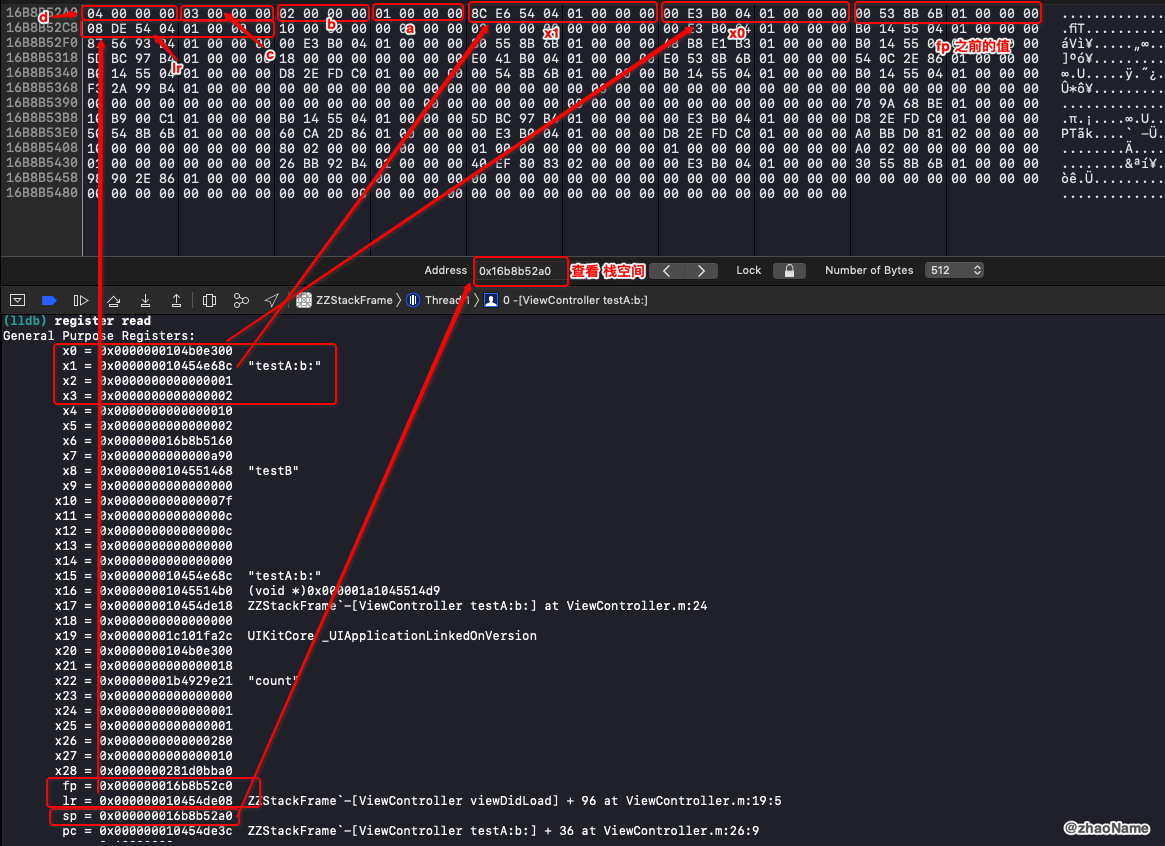
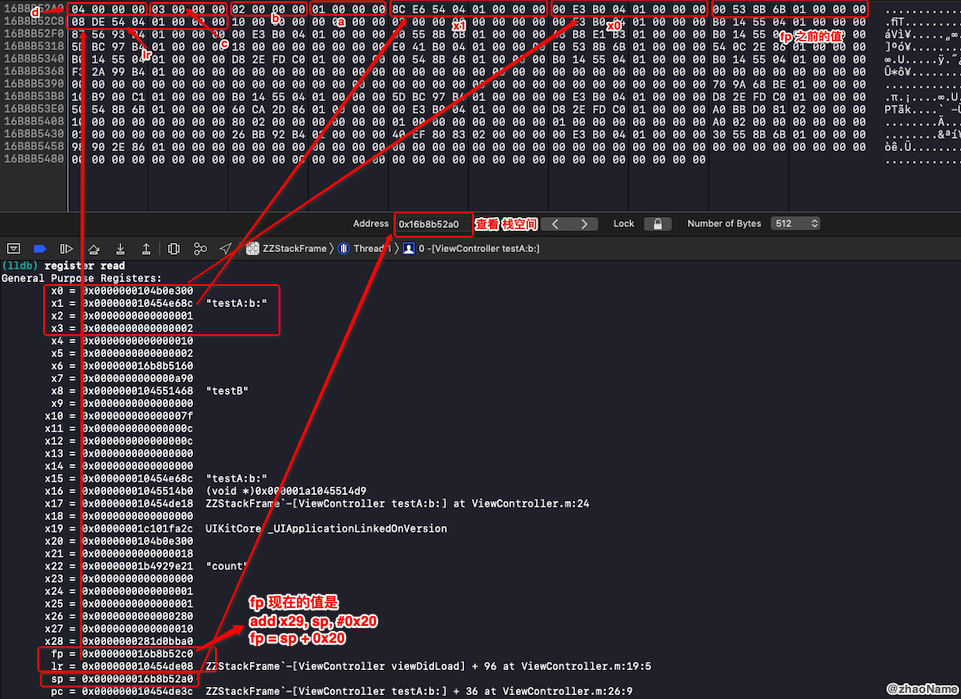
iOS获取任意线程调用栈(二) - ARM64下栈帧简介 完成

Changed region(s): [[0.0, 0.0, 1.0, 1.0], [0.9053, 0.9614, 0.999, 1.0]]

diff --git a/iOS/iOS获取任意线程调用栈(二) - ARM64下栈帧简介.md b/iOS/iOS获取任意线程调用栈(二) - ARM64下栈帧简介.md
@@ -278,7 +278,7 @@ ZZStackFrame`-[ViewController add:b:c:d:e:f:g:h:i:]:
 
 ### 0x03 总结
 
-- ARM64 环境下函数的参数最少有 2 个(receiver、cmd)，而且固定存放 x0 x1 寄存器中。
+- ARM64 环境下 OC 函数的参数最少有 2 个(receiver、cmd)，而且固定存放 x0 x1 寄存器中。
 
 - ARM64 环境下函数的参数不超过 8 个，将优先存储在寄存器中(x0 ~ x7)
 
@@ -410,7 +410,7 @@ ZZStackFrame`-[ViewController testA:b:]:
 
 局部变量在参数之后入栈。非叶子函数中还会调用其他函数，所以要保存 lr 和 fp,防止其被其他函数的 lr 和 fp 覆盖。
 
-Xcode -> Debug -> Debug Workflow -> View Memory 查看栈空间内存
+Xcode -> Debug -> Debug Workflow -> View Memory 查看栈空间内存(和上面图片一致)
 
 ![](../Images/iOS/iOSGetArbitraryThreadCallStack/ThreadCallStack_image0210.png)
 
@@ -418,17 +418,173 @@ Xcode -> Debug -> Debug Workflow -> View Memory 查看栈空间内存
 
 ## 五、调用栈
 
+### 0x01 正序
+
+从 `viewDidLoad `方法开始一路跟踪下去，看看调用栈结构
+
+```
+- (void)viewDidLoad {
+    [super viewDidLoad];
+    [self testA];
+}
+
+- (void)testA
+{
+    int a = 1;
+   [self testB];
+}
+
+
+- (void)testB
+{
+    int b = 2;
+    [self testC];
+}
+
+- (void)testC
+{
+    int c = 3;
+    [self testD];
+}
+
+- (void)testD
+{
+    int d = 4;
+}
+```
+
+![](../Images/iOS/iOSGetArbitraryThreadCallStack/ThreadCallStack_image0211.png)
+
+- callee 函数栈空间保存的 lr fp, 都是 caller 函数中的。 callee 函数的 fp 与 sp 有关
+
+- 叶子函数不保存 lr fp
+
+
+### 0x02 恢复函数调用栈
+
+
+在实际开发中，或者说是当线上 App 出现崩溃、卡顿等情况，我们想将崩溃时函数调用栈上传到服务器，以便解决问题、优化 App。那我们该怎么获取当前函数调用栈呢？
+
+假如崩溃在叶子函数也就是上述 `testD`函数中，那我们能获取当前线程信息，继而获取到寄存器信息(怎么获取的后面文章会介绍)
+
+- sp: 指向当前栈顶
+
+- pc: 当前函数正要执行指令的地址
+
+- lr: 返回地址，也就是 caller 函数的下条指令的地址
+
+- fp: 叶子函数没用到fp, fp还在 caller 函数的栈空间
+
+- x0 ~ x28: 对恢复调用栈来说用处不大
+
+若崩溃到非叶子函数
+
+- sp: 指向当前栈顶
+
+- pc: callee 函数正要执行指令的地址
+
+- lr: 返回地址，caller 函数的下条指令的地址
+
+- fp: 非叶子函数会先将 fp 入栈，然后修改 fp 指向入栈位置。**也就是 fp 的地址是在 callee 函数栈空间，但 fp 指针的值(存储的值)在 caller 函数的栈空间**
+
+- x0 ~ x28: 对恢复调用栈来说用处不大
+
+
+无论崩溃的函数是叶子函数还是非叶子函数，都能获取到当前函数的寄存器信息，但是要恢复函数调用栈，只有当前的寄存器的信息是不行的。这时候 fp 就成了救命稻草！！
+
+以上述函数调用为例，假设崩在`testD`函数中。线上崩溃我们也不知道崩的具体函数，但我们能获取到寄存器 pc 的值，pc 为当前函数正要执行指令的地址。那我们就能根据 pc 指针的值在 Mach-O 文件中的位置，找到具体对应的函数(怎么找的下篇文章会说，现在只需知道有这回事)。
+
+那我们该怎么找到是哪个函数调用了`testD`呢？有人可能会说利用 lr，lr 是 caller 函数某条指令的地址。这样就能找到是`testC`调用的`testD`。这样是可以，但再往上呢？怎么找到哪个函数调用了`testC `？
+
+上面说到 **callee 函数栈中存储的 fp 指针的值在 caller 函数的栈空间,** 而且 ARM64 环境下将 fp 入栈还会将 lr 一起入栈，fp lr所处栈空间地址是连续的(`stp x29, x30, [sp, #0x20]`)放在当前函数栈空间的栈底。那意思就是说我们将 callee 函数中 fp 指针的值加 0x8 就是 lr 的内存地址。lr 指针的值是 caller 函数某条指令的地址。这样我们就找到是谁调用了`testD `。以此类推我们就知道整个函数调用栈。
+
+
+![](../Images/iOS/iOSGetArbitraryThreadCallStack/ThreadCallStack_image0212.png)
+
+结合图说下恢复函数调用栈(假设从`testD`开始)
+
+- 首先根据 pc 指针的值在 Mach-O 文件中的位置，找到具体对应的函数 `testD`
+
+- lr 为上个函数某条指令的地址，可以根据 lr 在 Mach-O 文件中的位置，找到具体对应的函数 `testC`。
+
+- 此时 fp 指针的地址为 0x40，0x40+0x8 为 lr，也就是调用`testC `函数的函数某条指令的地址。我们拿到`testC `栈中存储的 lr 就能在 Mach-O 文件中找到具体对应的函数 `testB`。
+
+- fp 中存储的值是0x70，也就是`testB`函数中 fp 所在栈空间的地址。0x70 + 0x8 为调用`testB`函数的函数某条指令的地址 lr。那这样就能找到`testA`。
+
+- 0x70 内存中 fp 指针的值为 0xa0。那 0xa0 + 0x8 就是调用`testA`函数的函数中某条指令的地址。这样就能找到`viewDidLoad`.
+
+- 那 0xa0 内存中 fp 指针的值加0x8 就是调用`viewDidLoad `函数的函数的某条指令的地址，以此类推一直找到最开始的调用函数。
+
+### 0x03 为什么不用 x1 
+
+我们知道 OC 方法调用会固定传两个参数`receiver`、`cmd`, 且分别固定放在寄存器 x0、x1中。看上面汇编代码 x0、x1 会紧跟 fp 、lr入栈。也就是说 fp - 0x10 就是 x1 在栈空间的地址，这样不就找到了函数名了吗！这不比在 Mach-O 中找方法速度要快很多吗！！
+
+对这样是快很多，但这只是 OC 方法会固定传两个参数`receiver`、`cmd`。若是 C 函数或 C++ 函数，是没有`cmd`的。
+
+
+```
+- (void)viewDidLoad {
+    [super viewDidLoad];
+    test_c1();
+}
+
+void test_c1(void)
+{
+    int e = 0;
+    test_c2();
+}
+
+void test_c2(void)
+{
+    int e = 0;
+}
+```
+
+转化为汇编
+
+```
+ZZStackFrame`-[ViewController viewDidLoad]:
+    0x104d7dcbc <+0>:  sub    sp, sp, #0x30             ; =0x30 
+    0x104d7dcc0 <+4>:  stp    x29, x30, [sp, #0x20]
+    0x104d7dcc4 <+8>:  add    x29, sp, #0x20            ; =0x20 
+    ...
+    ; 调用[super viewDidLoad] 
+    0x104d7dcf0 <+52>: ldr    x1, [x8]
+    0x104d7dcf4 <+56>: mov    x0, sp
+    0x104d7dcf8 <+60>: bl     0x104d7e594               ; symbol stub for: objc_msgSendSuper2
+    ; 调用 test_c1()
+    ; 可以看到 并没有想调用[super viewDidLoad]那样准备 x0 x1
+->  0x104d7dcfc <+64>: bl     0x104d7dd0c               ; test_c1 at ViewController.m:29
+    0x104d7dd00 <+68>: ldp    x29, x30, [sp, #0x20]
+    0x104d7dd04 <+72>: add    sp, sp, #0x30             ; =0x30 
+    0x104d7dd08 <+76>: ret 
+    
+    
+ZZStackFrame`test_c1:
+    0x104d7dd0c <+0>:  sub    sp, sp, #0x20             ; =0x20 
+    0x104d7dd10 <+4>:  stp    x29, x30, [sp, #0x10]
+    0x104d7dd14 <+8>:  add    x29, sp, #0x10            ; =0x10 
+->  0x104d7dd18 <+12>: stur   wzr, [x29, #-0x4]
+	; 调用 test_c2() 也没有用到 x0 x1
+    0x104d7dd1c <+16>: bl     0x104d7dd2c               ; test_c2 at ViewController.m:35
+    0x104d7dd20 <+20>: ldp    x29, x30, [sp, #0x10]
+    0x104d7dd24 <+24>: add    sp, sp, #0x20             ; =0x20 
+    0x104d7dd28 <+28>: ret  
+    
+
+ZZStackFrame`test_c2:
+    0x104d7dd2c <+0>:  sub    sp, sp, #0x10             ; =0x10 
+->  0x104d7dd30 <+4>:  str    wzr, [sp, #0xc]
+    0x104d7dd34 <+8>:  add    sp, sp, #0x10             ; =0x10 
+    0x104d7dd38 <+12>: ret  
+```
+
+想想 OC 是基于 C 的，OC 中的动态共享缓存库中到底有多少是 C 的函数我们也不知道。或者我们用的三方库中有多少是 C 的函数我们也不知道。那我们要想获取完整的函数调用栈，就只能用 fp,而不能用 x1。
 
 
 <br>
 
 <br>
-
-<br>
-
-
-<br>
-
 
 <br>
 
